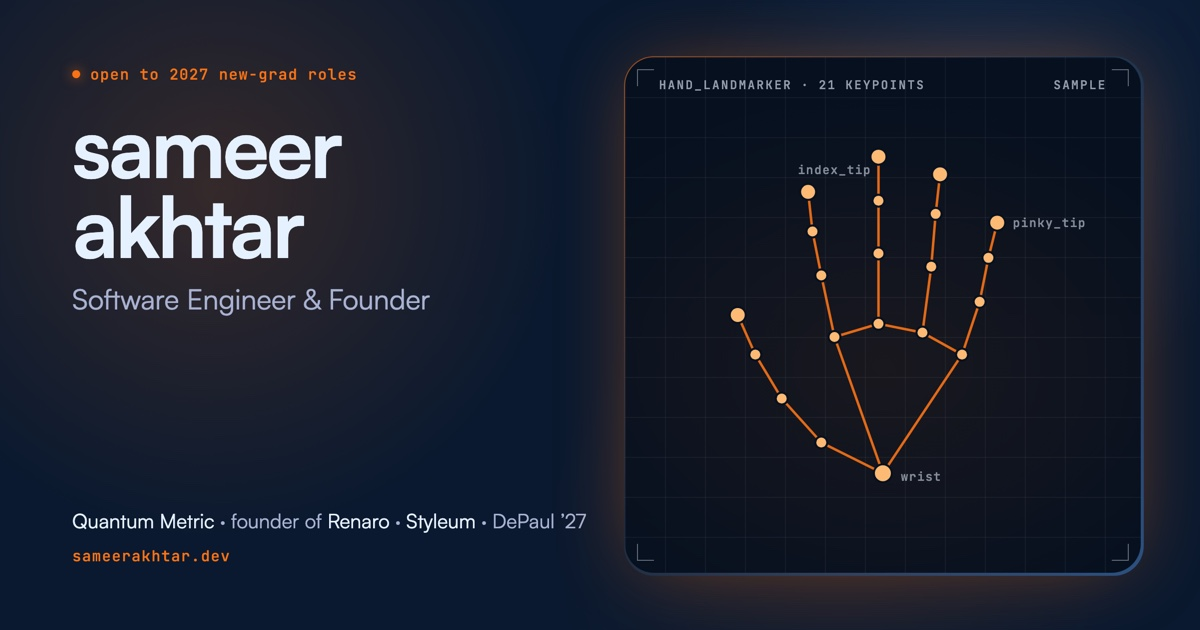
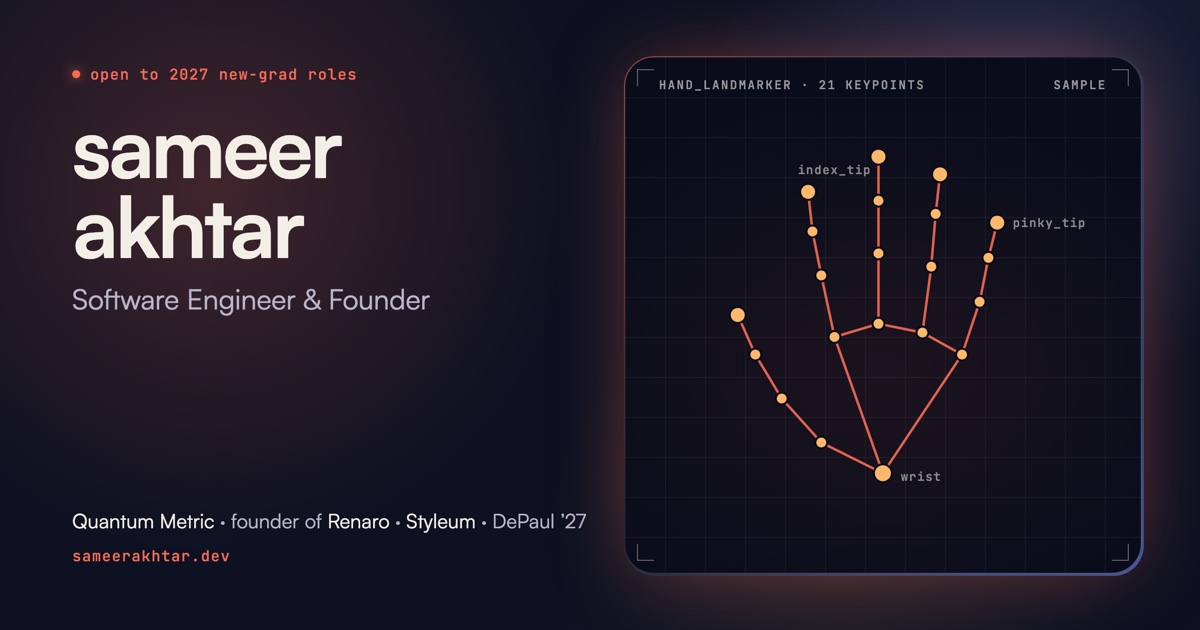
Switch to the Chicago dusk palette
Midnight indigo base with salmon coral sampled from a Wrigley Field sunset
and the SA mark, periwinkle as the second accent, amber keypoints, and mint
for live states. Applied across tokens, orbs, the viewfinder, diagram tints,
code colors, meta, the OG image, and a transparent coral logo mark for the
nav. Light variant is a cool off-white version of the same system.

diff --git a/src/styles/globals.css b/src/styles/globals.css
@@ -27,54 +27,56 @@
 }
 
 /* ------------------------------------------------------------------
-   Tokens: navy + orange, the sameerakhtar.dev theme. Dark is the default.
+   Tokens: "Chicago dusk". Midnight indigo, salmon coral sampled from a
+   Wrigley Field sunset and the SA mark, periwinkle dusk, amber keypoints.
+   Dark is the default.
    ------------------------------------------------------------------ */
 :root {
   color-scheme: dark;
-  --bg: #0a192f;
-  --elev: #112240;
-  --elev-2: #1d3557;
-  --panel: #06101f;
-  --line: rgba(230, 241, 255, 0.08);
-  --line-strong: rgba(230, 241, 255, 0.16);
-  --ink: #e6f1ff;
-  --ink-2: #a8b2d1;
-  --ink-3: #8892b0;
-  --accent: #f97316;
-  --accent-hover: #fb923c;
-  --accent-ink: #0a192f;
-  --peach: #fdba74;
-  --sky: #60a5fa;
-  --violet: #a78bfa;
-  --live: #4ade80;
-  --glow: rgba(249, 115, 22, 0.35);
-  --glow-soft: rgba(249, 115, 22, 0.12);
+  --bg: #0d1121;
+  --elev: #161b31;
+  --elev-2: #232a4a;
+  --panel: #090c1a;
+  --line: rgba(244, 239, 230, 0.09);
+  --line-strong: rgba(244, 239, 230, 0.18);
+  --ink: #f4efe6;
+  --ink-2: #b9b6c8;
+  --ink-3: #807e95;
+  --accent: #f76b57;
+  --accent-hover: #ff8a78;
+  --accent-ink: #0d1121;
+  --peach: #ffb86b;
+  --sky: #8b9cff;
+  --violet: #b39cff;
+  --live: #7fe0a6;
+  --glow: rgba(247, 107, 87, 0.4);
+  --glow-soft: rgba(247, 107, 87, 0.13);
   --orb-opacity: 1;
-  --shadow: 0 24px 60px -24px rgba(2, 8, 20, 0.7);
+  --shadow: 0 24px 60px -24px rgba(3, 5, 16, 0.75);
 }
 
 [data-theme="light"] {
   color-scheme: light;
-  --bg: #f8fafc;
+  --bg: #f4f4f8;
   --elev: #ffffff;
-  --elev-2: #e2e8f0;
-  --panel: #0b1220;
-  --line: rgba(15, 23, 42, 0.08);
-  --line-strong: rgba(15, 23, 42, 0.16);
-  --ink: #0f172a;
-  --ink-2: #475569;
-  --ink-3: #64748b;
-  --accent: #ea580c;
-  --accent-hover: #c2410c;
+  --elev-2: #e6e6ee;
+  --panel: #0f1224;
+  --line: rgba(20, 22, 42, 0.09);
+  --line-strong: rgba(20, 22, 42, 0.18);
+  --ink: #14162a;
+  --ink-2: #4e5068;
+  --ink-3: #7e8096;
+  --accent: #cf4b38;
+  --accent-hover: #b23f2e;
   --accent-ink: #ffffff;
-  --peach: #fdba74;
-  --sky: #2563eb;
-  --violet: #7c3aed;
-  --live: #16a34a;
-  --glow: rgba(234, 88, 12, 0.28);
-  --glow-soft: rgba(234, 88, 12, 0.1);
-  --orb-opacity: 0.55;
-  --shadow: 0 24px 60px -28px rgba(15, 23, 42, 0.3);
+  --peach: #ffb86b;
+  --sky: #4b5cd6;
+  --violet: #7b5fd6;
+  --live: #1f9e5a;
+  --glow: rgba(207, 75, 56, 0.3);
+  --glow-soft: rgba(207, 75, 56, 0.1);
+  --orb-opacity: 0.6;
+  --shadow: 0 24px 60px -28px rgba(20, 22, 42, 0.3);
 }
 
 @theme inline {
@@ -416,7 +418,7 @@
     position: absolute;
     width: 14px;
     height: 14px;
-    border-color: rgba(230, 241, 255, 0.4);
+    border-color: rgba(244, 239, 230, 0.4);
     border-style: solid;
     pointer-events: none;
   }
@@ -443,13 +445,13 @@
 
   /* Code tokens: code panels are always dark */
   .tok-kw {
-    color: #c4b5fd;
+    color: #b4bdff;
   }
   .tok-str {
-    color: #86efac;
+    color: #ffcf8a;
   }
   .tok-cm {
-    color: rgba(230, 241, 255, 0.45);
+    color: rgba(244, 239, 230, 0.45);
     font-style: italic;
   }
 
@@ -508,7 +510,7 @@
     padding: 1rem 1.125rem;
     background: var(--panel);
     overflow-x: auto;
-    color: rgba(230, 241, 255, 0.88);
+    color: rgba(244, 239, 230, 0.88);
   }
   .prose-site pre code {
     background: transparent;

diff --git a/src/components/work/WorkVisual.tsx b/src/components/work/WorkVisual.tsx
@@ -12,7 +12,7 @@ type Visual = {
 const visuals: Record<string, Visual> = {
   renaro: {
     eyebrow: "Dispatch platform",
-    tint: ["rgba(249,115,22,0.22)", "rgba(251,191,36,0.06)"],
+    tint: ["rgba(247,107,87,0.24)", "rgba(255,184,107,0.06)"],
     nodes: [
       { label: "Bookings", detail: "phone · web · app", x: 12, y: 50 },
       { label: "Dispatch", detail: "driver scoring", x: 37, y: 28 },
@@ -32,7 +32,7 @@ const visuals: Record<string, Visual> = {
   },
   "brand-discovery": {
     eyebrow: "GenAI pipeline",
-    tint: ["rgba(167,139,250,0.22)", "rgba(96,165,250,0.08)"],
+    tint: ["rgba(139,156,255,0.24)", "rgba(179,156,255,0.08)"],
     nodes: [
       { label: "Source", detail: "URL or PDF", x: 12, y: 50 },
       { label: "Render", detail: "Cloud Run", x: 37, y: 28 },
@@ -52,7 +52,7 @@ const visuals: Record<string, Visual> = {
   },
   styleum: {
     eyebrow: "Vision + LLM pipeline",
-    tint: ["rgba(244,114,182,0.2)", "rgba(249,115,22,0.08)"],
+    tint: ["rgba(255,120,170,0.22)", "rgba(247,107,87,0.08)"],
     nodes: [
       { label: "Wardrobe", detail: "one photo each", x: 12, y: 50 },
       { label: "Segment", detail: "BiRefNet", x: 37, y: 28 },
@@ -71,7 +71,7 @@ const visuals: Record<string, Visual> = {
   },
   hazardlens: {
     eyebrow: "Detection pipeline",
-    tint: ["rgba(248,113,113,0.22)", "rgba(249,115,22,0.08)"],
+    tint: ["rgba(255,90,90,0.22)", "rgba(255,184,107,0.08)"],
     nodes: [
       { label: "Video", detail: "OpenCV decode", x: 12, y: 50 },
       { label: "YOLO26", detail: "NMS-free", x: 37, y: 28 },
@@ -91,7 +91,7 @@ const visuals: Record<string, Visual> = {
   },
   windwalk: {
     eyebrow: "Routing",
-    tint: ["rgba(34,211,238,0.2)", "rgba(96,165,250,0.08)"],
+    tint: ["rgba(120,200,255,0.22)", "rgba(139,156,255,0.08)"],
     nodes: [
       { label: "Pedway", detail: "40+ nodes", x: 12, y: 30 },
       { label: "Streets", detail: "surface edges", x: 12, y: 70 },
@@ -110,7 +110,7 @@ const visuals: Record<string, Visual> = {
   },
   "llm-router": {
     eyebrow: "Routing layer",
-    tint: ["rgba(96,165,250,0.2)", "rgba(34,211,238,0.06)"],
+    tint: ["rgba(139,156,255,0.2)", "rgba(120,200,255,0.06)"],
     nodes: [
       { label: "Prompt", detail: "request", x: 12, y: 50 },
       { label: "Signals", detail: "6 features", x: 37, y: 28 },
@@ -130,7 +130,7 @@ const visuals: Record<string, Visual> = {
   },
   deepcite: {
     eyebrow: "Retrieval engine",
-    tint: ["rgba(74,222,128,0.18)", "rgba(52,211,153,0.06)"],
+    tint: ["rgba(127,224,166,0.18)", "rgba(139,156,255,0.06)"],
     nodes: [
       { label: "Query", detail: "research", x: 12, y: 50 },
       { label: "Search", detail: "Serper", x: 37, y: 28 },
@@ -171,7 +171,7 @@ export function WorkVisual({
         className="absolute inset-0 opacity-60"
         style={{
           backgroundImage:
-            "linear-gradient(rgba(230,241,255,0.07) 1px, transparent 1px), linear-gradient(90deg, rgba(230,241,255,0.07) 1px, transparent 1px)",
+            "linear-gradient(rgba(244,239,230,0.07) 1px, transparent 1px), linear-gradient(90deg, rgba(244,239,230,0.07) 1px, transparent 1px)",
           backgroundSize: "32px 32px",
         }}
       />

diff --git a/src/components/perception/PerceptionDemo.tsx b/src/components/perception/PerceptionDemo.tsx
@@ -74,7 +74,7 @@ export function PerceptionDemo() {
         className="rounded-2xl p-px"
         style={{
           background:
-            "linear-gradient(135deg, rgba(249,115,22,0.55), rgba(230,241,255,0.08) 45%, rgba(96,165,250,0.35))",
+            "linear-gradient(135deg, rgba(247,107,87,0.6), rgba(244,239,230,0.08) 45%, rgba(139,156,255,0.45))",
           boxShadow: "0 0 70px -18px var(--glow), var(--shadow)",
         }}
       >
@@ -83,7 +83,7 @@ export function PerceptionDemo() {
           className="ticks relative aspect-[4/3] w-full overflow-hidden rounded-[15px] bg-panel"
           style={{
             backgroundImage:
-              "radial-gradient(120% 90% at 50% 60%, rgba(249,115,22,0.08), transparent 60%), linear-gradient(rgba(230,241,255,0.05) 1px, transparent 1px), linear-gradient(90deg, rgba(230,241,255,0.05) 1px, transparent 1px)",
+              "radial-gradient(120% 90% at 50% 60%, rgba(247,107,87,0.08), transparent 60%), linear-gradient(rgba(244,239,230,0.05) 1px, transparent 1px), linear-gradient(90deg, rgba(244,239,230,0.05) 1px, transparent 1px)",
             backgroundSize: "100% 100%, 40px 40px, 40px 40px",
             backgroundPosition: "center, center, center",
           }}
@@ -106,7 +106,7 @@ export function PerceptionDemo() {
           {/* Readout */}
           <div
             className="pointer-events-none absolute inset-x-8 top-3.5 flex items-center justify-between gap-3 font-mono text-[10.5px] tracking-[0.14em] uppercase"
-            style={{ color: "rgba(230,241,255,0.62)" }}
+            style={{ color: "rgba(244,239,230,0.62)" }}
           >
             <span className="truncate">
               hand_landmarker<span className="hidden sm:inline"> · 21 keypoints</span>
@@ -115,7 +115,7 @@ export function PerceptionDemo() {
               {isLive && (
                 <span
                   className="inline-block h-1.5 w-1.5 rounded-full"
-                  style={{ background: "#f97316" }}
+                  style={{ background: "#f76b57" }}
                   aria-hidden="true"
                 />
               )}
@@ -141,7 +141,7 @@ export function PerceptionDemo() {
           {/* Controls */}
           <div className="absolute inset-x-5 bottom-5 flex flex-wrap items-center justify-between gap-3">
             {cameraMounted ? (
-              <button type="button" onClick={stop} className="btn btn-sm btn-ghost !text-[#e6f1ff]">
+              <button type="button" onClick={stop} className="btn btn-sm btn-ghost !text-[#f4efe6]">
                 Stop camera
               </button>
             ) : (
@@ -152,7 +152,7 @@ export function PerceptionDemo() {
             )}
             <span
               className="font-mono text-[10.5px] tracking-[0.1em] uppercase"
-              style={{ color: "rgba(230,241,255,0.5)" }}
+              style={{ color: "rgba(244,239,230,0.5)" }}
             >
               <span className="hidden sm:inline">Runs in your browser · </span>nothing uploaded
             </span>

diff --git a/src/components/fx/Atmosphere.tsx b/src/components/fx/Atmosphere.tsx
@@ -1,11 +1,11 @@
-// Fixed background: soft orange, blue, and violet orbs plus a film grain.
+// Fixed background: coral, periwinkle, amber, and violet orbs plus film grain.
 // Pure CSS so it costs nothing at runtime; dims under the light theme.
 
 const ORBS = [
-  { size: 520, x: "18%", y: "28%", color: "rgba(249,115,22,0.16)", blur: 110, delay: "0s" },
-  { size: 380, x: "78%", y: "18%", color: "rgba(96,165,250,0.09)", blur: 100, delay: "-5s" },
-  { size: 420, x: "70%", y: "72%", color: "rgba(249,115,22,0.08)", blur: 120, delay: "-9s" },
-  { size: 360, x: "10%", y: "78%", color: "rgba(167,139,250,0.07)", blur: 110, delay: "-3s" },
+  { size: 540, x: "18%", y: "28%", color: "rgba(247,107,87,0.2)", blur: 110, delay: "0s" },
+  { size: 420, x: "80%", y: "18%", color: "rgba(139,156,255,0.16)", blur: 100, delay: "-5s" },
+  { size: 420, x: "70%", y: "72%", color: "rgba(255,184,107,0.09)", blur: 120, delay: "-9s" },
+  { size: 360, x: "10%", y: "78%", color: "rgba(179,156,255,0.08)", blur: 110, delay: "-3s" },
 ];
 
 export function Atmosphere() {

diff --git a/src/components/perception/LiveDemo.tsx b/src/components/perception/LiveDemo.tsx
@@ -202,12 +202,12 @@ export function LiveDemo({ width, height, isInView, onReady, onStats, onError }:
       )}
       {!ready && (
         <div className="absolute inset-x-0 bottom-16 flex flex-col items-center gap-2 px-6">
-          <span className="font-mono text-[10.5px] tracking-[0.14em] uppercase text-[rgba(230,241,255,0.7)]">
+          <span className="font-mono text-[10.5px] tracking-[0.14em] uppercase text-[rgba(244,239,230,0.7)]">
             Starting camera · loading model (~7 MB)
           </span>
-          <span className="relative block h-px w-40 overflow-hidden bg-[rgba(230,241,255,0.15)]">
+          <span className="relative block h-px w-40 overflow-hidden bg-[rgba(244,239,230,0.15)]">
             <span
-              className="absolute inset-y-0 left-0 w-1/3 bg-[#fdba74]"
+              className="absolute inset-y-0 left-0 w-1/3 bg-[#ffb86b]"
               style={{ animation: "shimmer 1.4s ease-in-out infinite" }}
             />
           </span>

diff --git a/src/components/TopNav.tsx b/src/components/TopNav.tsx
@@ -61,13 +61,9 @@ export function TopNav() {
           className="flex items-center gap-2.5 font-medium tracking-tight text-ink transition-colors hover:text-accent"
           onClick={() => setOpen(false)}
         >
-          <img
-            src="/SameerAkhtar.dev-logo-navybg.jpg"
-            alt=""
-            width={26}
-            height={26}
-            className="rounded-md"
-          />
+          <span className="flex h-7 w-7 items-center justify-center rounded-md border border-line bg-elev">
+            <img src="/logo-mark.png" alt="" width={16} height={16} className="h-4 w-4" />
+          </span>
           <span>sameer akhtar</span>
         </Link>
 

diff --git a/src/components/ConsoleEasterEgg.tsx b/src/components/ConsoleEasterEgg.tsx
@@ -4,9 +4,9 @@ import { site } from "@/lib/site";
 export function ConsoleEasterEgg() {
   useEffect(() => {
     if (typeof window === "undefined") return;
-    const heading = "color:#f97316;font-weight:600;font-size:13px";
-    const body = "color:#a8b2d1;font-size:12px";
-    const mono = "color:#8892b0;font-family:monospace;font-size:11px";
+    const heading = "color:#f76b57;font-weight:600;font-size:13px";
+    const body = "color:#b9b6c8;font-size:12px";
+    const mono = "color:#807e95;font-family:monospace;font-size:11px";
 
     console.log("%cYou found the console.", heading);
     console.log(

diff --git a/src/routes/__root.tsx b/src/routes/__root.tsx
@@ -24,7 +24,7 @@ export const Route = createRootRoute({
       { charSet: "utf-8" },
       { name: "viewport", content: "width=device-width, initial-scale=1, viewport-fit=cover" },
       { name: "color-scheme", content: "dark light" },
-      { name: "theme-color", content: "#0a192f" },
+      { name: "theme-color", content: "#0d1121" },
       { name: "format-detection", content: "telephone=no" },
       { name: "apple-mobile-web-app-title", content: site.name },
       { name: "author", content: site.name },

diff --git a/src/components/perception/SampleOverlay.tsx b/src/components/perception/SampleOverlay.tsx
@@ -80,7 +80,7 @@ export function SampleOverlay({ width, height, dim = false }: SampleOverlayProps
               left: `calc(${x * 100}% + ${dx}px)`,
               top: `calc(${y * 100}% + ${dy}px)`,
               transform: alignRight ? "translateX(-100%)" : undefined,
-              color: "rgba(230, 241, 255, 0.55)",
+              color: "rgba(244, 239, 230, 0.55)",
               animationDelay: `${900 + index * 30}ms`,
             }}
           >

diff --git a/src/components/perception/HandSkeleton.tsx b/src/components/perception/HandSkeleton.tsx
@@ -4,9 +4,9 @@ import type { NormalizedPoint } from "./perception-sample";
 const FINGERTIPS = new Set([4, 8, 12, 16, 20]);
 
 // Fixed colours: the viewfinder panel is dark in both themes.
-const BONE = "#f97316";
-const JOINT = "#fdba74";
-const RING = "#06101f";
+const BONE = "#f76b57";
+const JOINT = "#ffb86b";
+const RING = "#090c1a";
 
 interface HandSkeletonProps {
   /** Hands as arrays of 21 normalized [x, y] points in [0, 1]. */

diff --git a/README.md b/README.md
@@ -7,7 +7,7 @@ hand-tracking demo (MediaPipe Hand Landmarker on WebAssembly + WebGL) entirely i
 
 - **Framework**: [TanStack Start](https://tanstack.com/start) (React 19 + Vite 7), file-based routing
 - **Build / SSR**: [Nitro](https://nitro.build), deployed on [Vercel](https://vercel.com)
-- **Styling**: [Tailwind CSS v4](https://tailwindcss.com) with CSS-variable tokens; navy + orange theme, dark by default with a light variant
+- **Styling**: [Tailwind CSS v4](https://tailwindcss.com) with CSS-variable tokens; the "Chicago dusk" palette (midnight indigo, coral, periwinkle, amber), dark by default with a light variant
 - **Type**: Satoshi (self-hosted) with JetBrains Mono for labels and code
 - **Motion**: CSS reveals plus Framer Motion for the cursor, magnetic buttons, and nav; reduced motion is respected
 - **Perception demo**: `@mediapipe/tasks-vision` on the main thread with GPU delegate and CPU fallback
